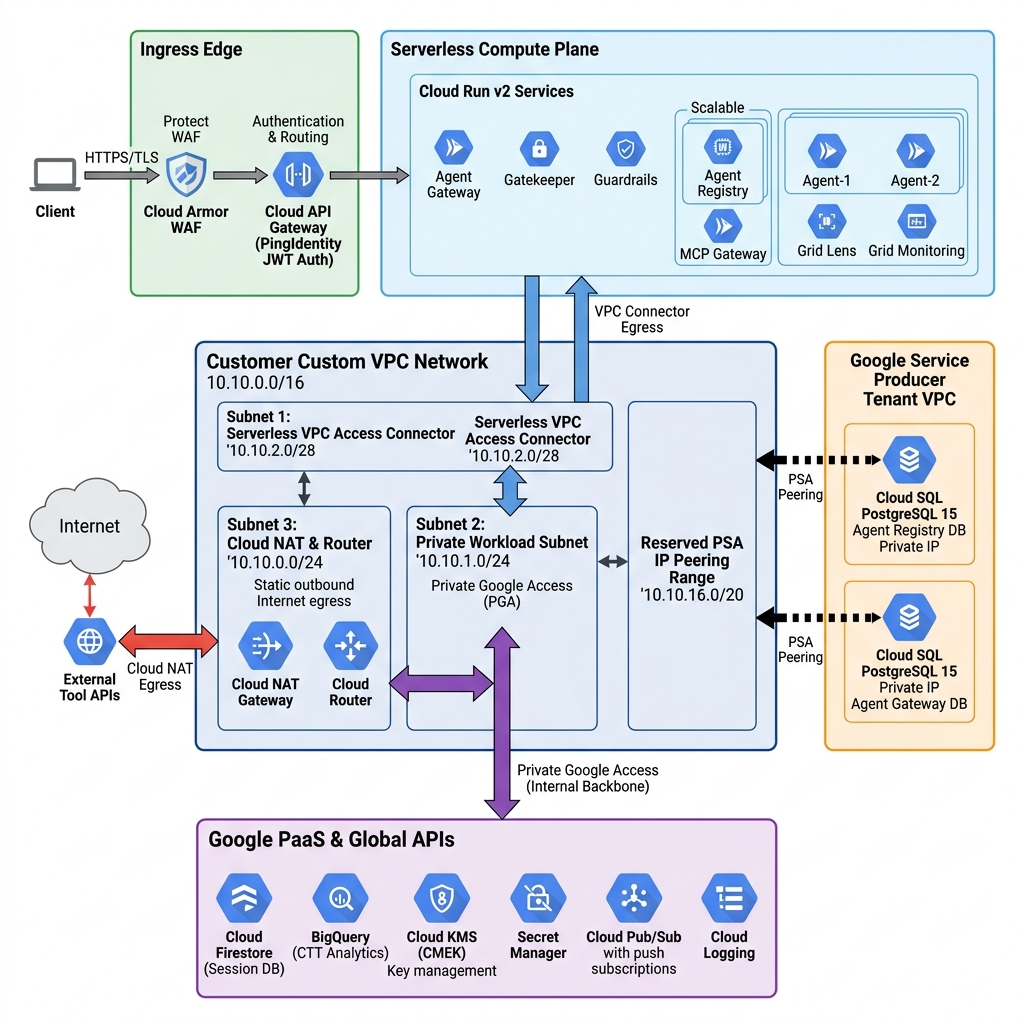
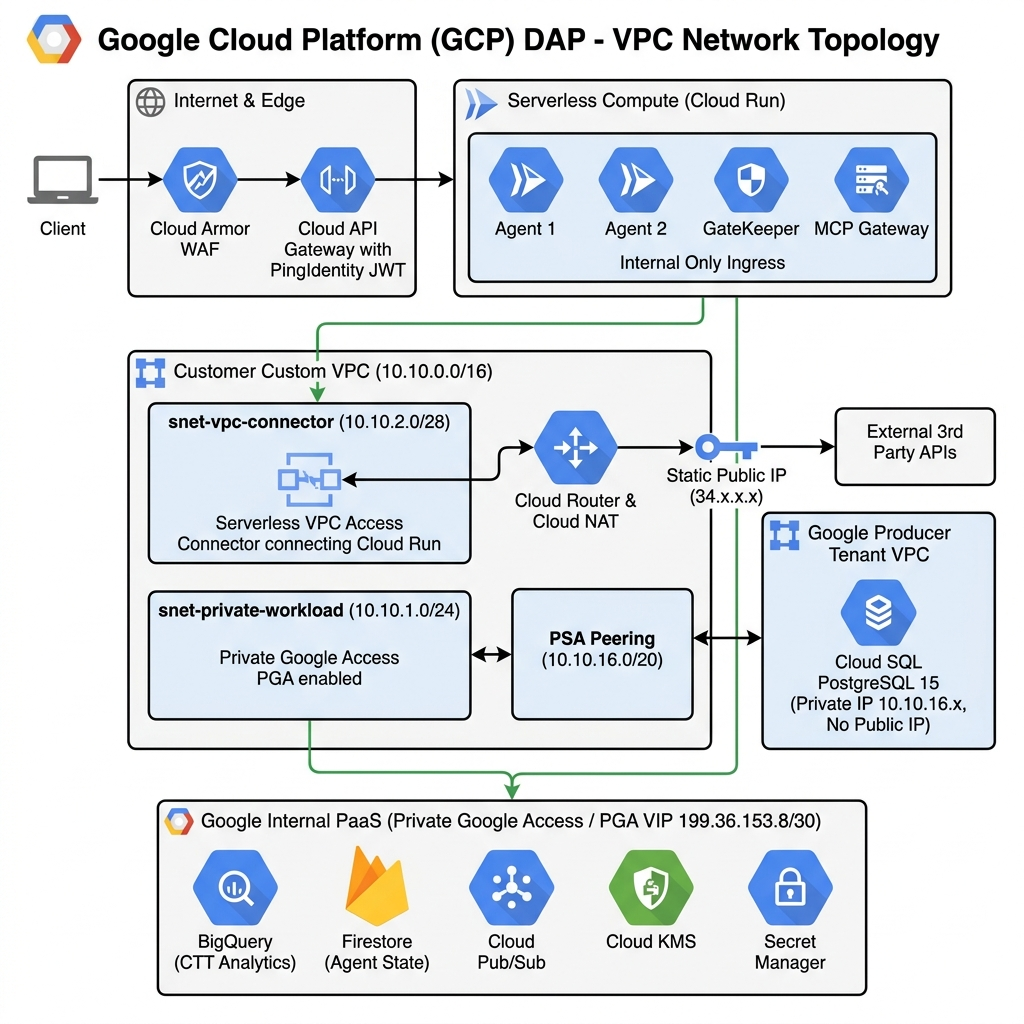
docs: update VPC network topology diagram and add detailed architectural justification for Customer VPC

diff --git a/gcp/docs/ARCHITECTURE.md b/gcp/docs/ARCHITECTURE.md
@@ -55,6 +55,27 @@ The **Digital Agent Platform (DAP)** is a production-grade, event-driven, multi-
 
 ---
 
+### 💡 Why is a Customer VPC Required in a Serverless Platform?
+
+Even though compute (Cloud Run), storage (Firestore/BigQuery), and messaging (Pub/Sub) are serverless, a **Customer VPC** is essential for 4 enterprise architectural requirements:
+
+1. 🔒 **Private Cloud SQL Access (Zero Public IP for DB)**:
+   - Cloud SQL instances live inside Google's managed *Service Producer Tenant VPC*.
+   - Cloud Run cannot peer directly with Google's Tenant VPC. Instead, Cloud Run connects to the **Customer VPC** via a **Serverless VPC Access Connector**, which then transits across the **Private Services Access (PSA)** peering connection into the Tenant VPC (`10.10.16.x`). This guarantees that your relational database is never exposed to the public internet.
+
+2. 🛡 **Predictable Static Public IP for Outbound Tool Egress (Cloud NAT)**:
+   - When AI Agents or the MCP Gateway invoke external enterprise APIs, SaaS tools, or partner systems, those third-party firewalls require **IP Allowlisting**.
+   - Default serverless Cloud Run egress uses dynamic, rotating Google public IP pools that cannot be allowlisted. By routing outbound traffic through the Customer VPC with **Cloud NAT**, all egress traffic exits via a single, dedicated **Static Elastic Public IP** (`34.x.x.x`).
+
+3. ⚡ **Private Google Access (PGA) Routing**:
+   - The Customer VPC subnet enforces DNS resolution for `*.googleapis.com` to Google's Private VIPs (`199.36.153.8/30`), ensuring that all telemetry to BigQuery and state to Firestore stays strictly on Google's private software-defined network.
+
+4. 🏢 **Enterprise Compliance & Future Hybrid Connectivity**:
+   - The Customer VPC provides the foundation for **VPC Service Controls (VPC-SC)** perimeters to prevent data exfiltration.
+   - It allows seamless future expansion to on-premises data centers or mainframes via **Cloud VPN** or **Dedicated Interconnect**.
+
+---
+
 ## 3. Hop-by-Hop Packet & Connection Lifecycle
 
 ![GCP Hop-by-Hop Packet Journey](./gcp_hop_by_hop_diagram.png)
